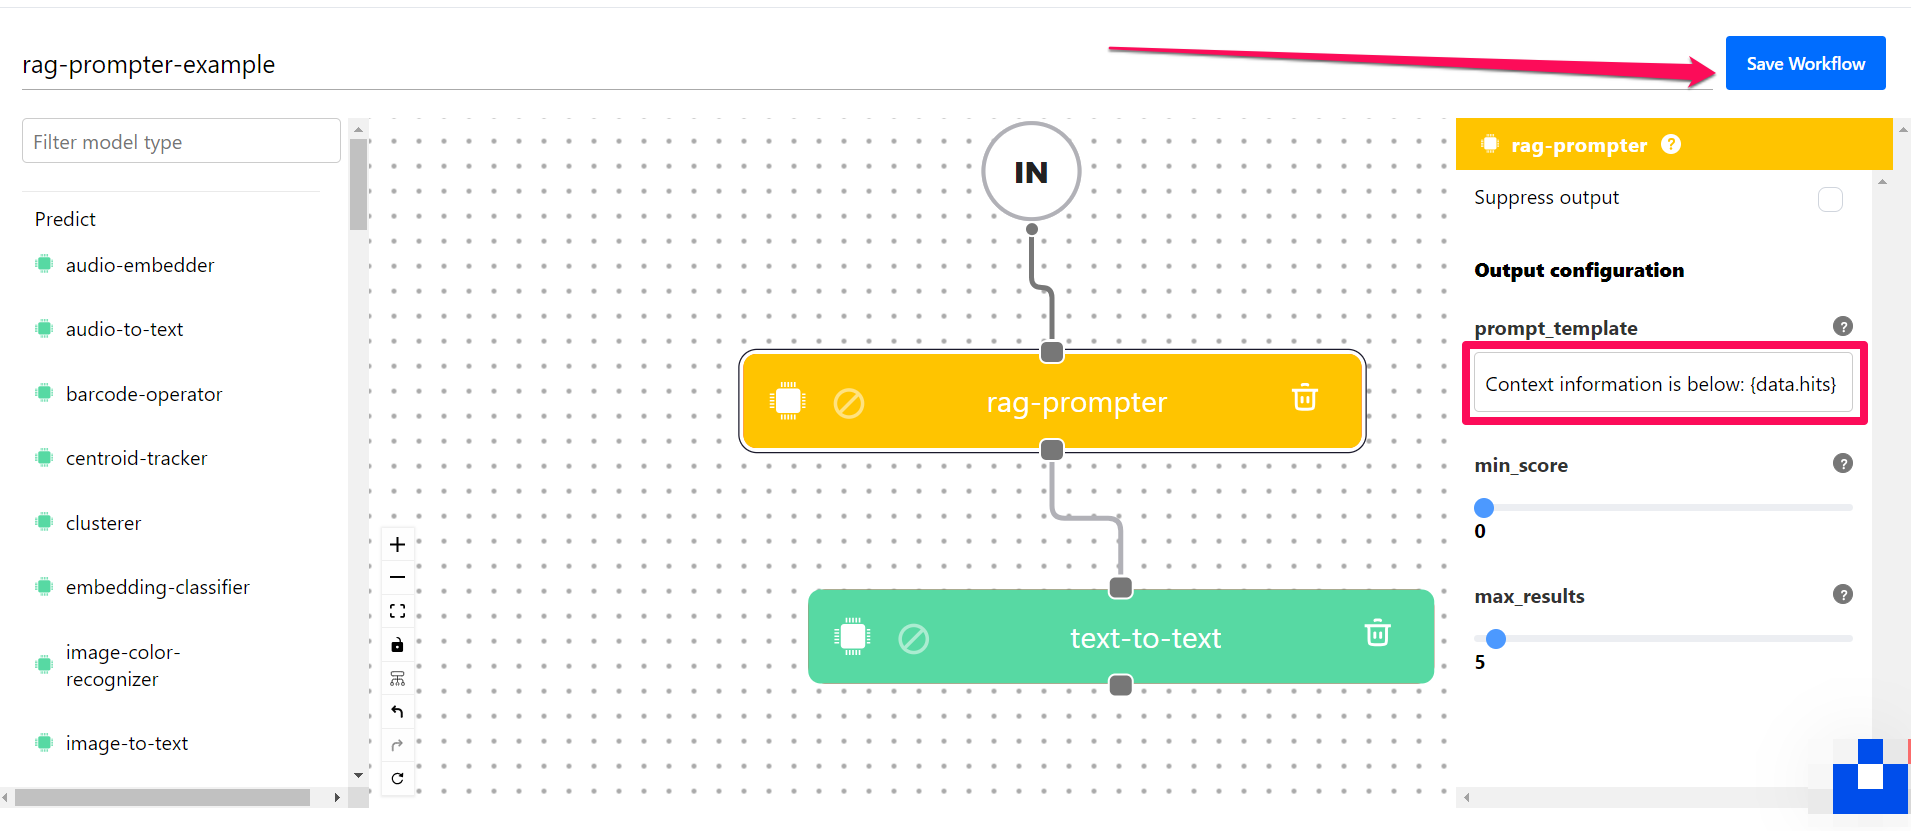
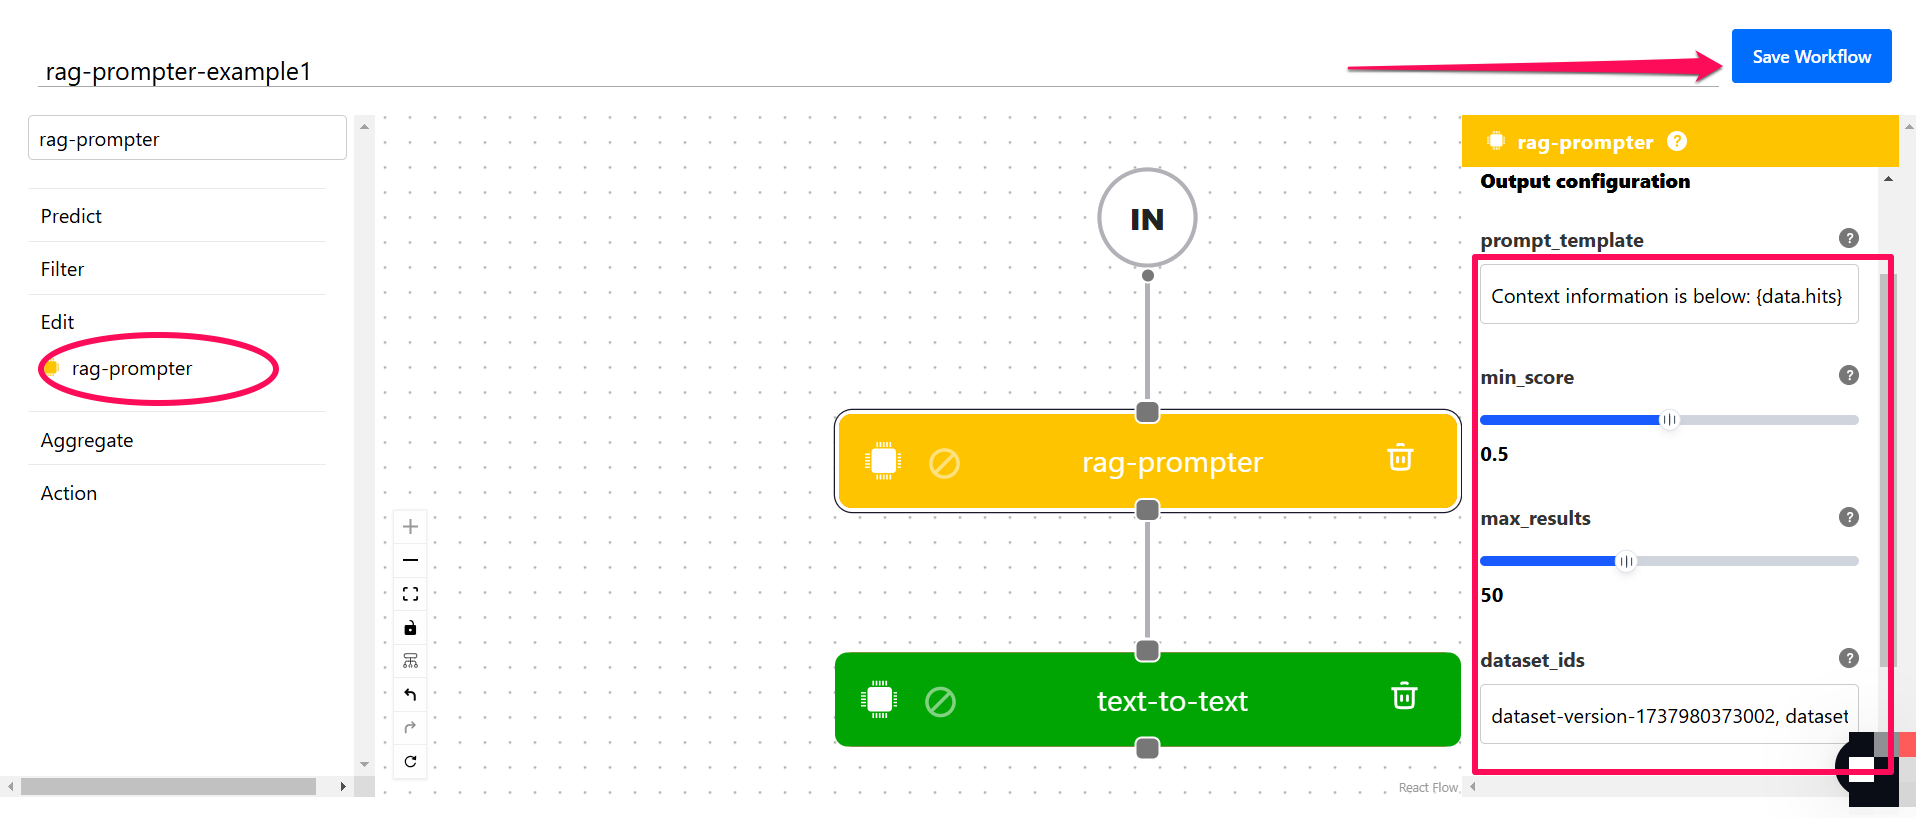
updated rag prompter

diff --git a/docs/portal-guide/agent-system-operators/rag-prompter.md b/docs/portal-guide/agent-system-operators/rag-prompter.md
@@ -14,7 +14,7 @@ LLMs have revolutionized natural language understanding across various applicati
 
 However, LLMs are often plagued by these two main limitations:
 
-- Most traditional LLMs have a static knowledge base that is limited to a specific period; for example, ChatGPT's knowledge cut-off is in January 2022. This makes them outdated and unable to respond accurately to recent events. 
+- Most traditional LLMs have a static knowledge base that is limited to a specific period; for example, as of this writing, ChatGPT's knowledge cut-off is in October 2023. This makes them outdated and unable to respond accurately to recent events. 
 
 - Most traditional LLMs are trained on an extensive, generalized collection of data, which may not be applicable to your specific use case. Whenever LLMs confront voids in their training data, they might generate seemingly plausible yet erroneous information, a phenomenon referred to as "hallucination."
 
@@ -56,7 +56,7 @@ Image source: [Clarifai portal](https://www.clarifai.com/hs-fs/hubfs/rag-query-d
 
 Let’s demonstrate how you can create a RAG Prompter model on the Clarifai platform. 
 
-:::note
+:::note objective
 
 Our intention is to search an app containing textual data for relevant information related to a provided text query. We extract the top k most relevant results from the app, and augment these results into the prompt we provide to the model. By leveraging the additional context, the model should be able to generate a more informative response to the question. 
 
@@ -74,7 +74,13 @@ When creating the application, select the **Text/Document** option as the primar
 
 ###  Step 2: Upload Data
 
-Next, upload the external data you want to use to optimize the output of a large language model. [Click here](https://docs.clarifai.com/portal-guide/data/#upload-inputs) to learn how you can upload data to your application. 
+Next, upload the external data you want to use to optimize the output of a large language model. [Click here](https://docs.clarifai.com/portal-guide/inputs-manager/upload-inputs) to learn how you can upload data to your application. 
+
+You can also [create a dataset](https://docs.clarifai.com/portal-guide/datasets/create-get-update-delete/#create-datasets) and add your inputs to it, then specify the dataset ID when configuring the RAG Prompter. This ensures the RAG Prompter performs context-based searches within the specified dataset, which leads to more accurate and relevant outputs.  
+
+If a dataset ID is not specified, the RAG Prompter will search across all inputs in your app, spanning all datasets. This can result in mixed context searches and less precise outputs due to jumbled context hits from unrelated datasets.
+
+Similarly, you can attach JSON metadata to your inputs when uploading them to the Clarifai platform. Metadata serve as additional information associated with your inputs and, like dataset IDs, can be used to narrow down search results. By specifying metadata, you can filter search results to match specific conditions, which further improves the relevance and accuracy of the context provided by the RAG Prompter.
 
 :::warning RAG in four lines of code
 
@@ -82,7 +88,7 @@ Next, upload the external data you want to use to optimize the output of a large
 
 :::
 
-For this example, let's add the following five inputs to our app:
+For this example, let's add the following inputs to a dataset in our app:
 
 ```
 The audit findings indicate that $460,000 was expended on machinery repairs during the previous twelve months. 
@@ -104,13 +110,15 @@ The financial records indicate that $480,000 was disbursed for machinery repairs
 During the 2019 fiscal year, the organization disbursed $475,000 on machinery repairs to ensure operational efficiency. 
 ``` 
 
-###  Step 3: Create a workflow
+###  Step 3: Create a Workflow
 
 Go to the [workflow builder](https://docs.clarifai.com/portal-guide/workflows/workflow-builder/). 
 
-Then, search for **rag-prompter** in the left-hand sidebar and drag it onto the empty workspace. Use the pop-up that appears on the right-hand sidebar to set up the template text as a single-line statement.
+Then, search for the **rag-prompter** node in the left-hand sidebar and drag it onto the empty workspace. 
 
-For this example, let's use this prompt template text:
+![](/img/others/rag-prompter-1.png)
+
+Use the pop-up that appears on the right-hand sidebar to set up the template text as a single-line statement. For this example, let's use this prompt template text:
 
 ```
 Context information is below: {data.hits} Given the context information and not prior knowledge, answer the query.Query: {data.text.raw} Answer: 
@@ -128,15 +136,15 @@ To customize your search experience, you can:
 
 - Modify `max_results` to specify the maximum number of relevant search results included in the prompt.
 
+- Provide a comma-separated list of `dataset_ids` or a single dataset ID for the RAG Prompter to search within. This ensures the search results are confined to specific datasets, which improves relevance and precision, as earlier explained.  
+
+- Define the `metadata` in JSON format to filter the search results further. Just like specifying a dataset ID, using [metadata](https://docs.clarifai.com/portal-guide/psearch/pfilter/#filter-by-metadata) enhances context generation and boosts the accuracy of the results. 
+
 To finalize creating your workflow, connect the **rag-prompter** to a text-to-text node, and choose a text-to-text LLM from the Clarifai Community, such as [GPT-4 Turbo](https://clarifai.com/openai/chat-completion/models/gpt-4-turbo).
 
-Then, save your workflow.
+Then, click the **Save Workflow** button to save your workflow.
 
-Here is an example:
- 
-![](/img/others/rag-prompter-1.png)
-
-### Step 4: Use the workflow
+### Step 4: Use the Workflow
 
 After saving the workflow, you’ll be directed to its individual page, where you can start using it. 
 
@@ -162,7 +170,7 @@ After creating your RAG Prompter, you can edit it by navigating to its individua
 
 ![](/img/others/rag-prompter-3.png)
 
-You'll be redirected to the workflow editor page, where you can make any changes needed, such as updating the prompt template text or the `min_score` and `max_results` parameters. 
+You'll be redirected to the workflow editor page, where you can make any changes needed, such as updating the prompt template text or other parameters. 
 
 ![](/img/others/rag-prompter-4.png)
 
@@ -180,7 +188,10 @@ You can then select the version to use for inferencing.
 
 ![](/img/others/rag-prompter-5.png)
 
-You can try this workflow [here](https://clarifai.com/clarifai/Sample-Workflows-for-Docs/workflows/RAG-Prompter?version=0d6fdf0f67df4dbfa386ff8c76a3cb77). 
+<!--
 :::note
-Before trying to access the workflow, please make sure that you have a Clarifai account and are logged in to the Clarifai platform to access the example workflow. If you do not have clarifai account you can signup [here](https://clarifai.com/explore).
+
+You can try this workflow [here](https://clarifai.com/clarifai/Sample-Workflows-for-Docs/workflows/RAG-Prompter?version=0d6fdf0f67df4dbfa386ff8c76a3cb77). 
+
 :::
+-->

diff --git a/docs/portal-guide/control-center/teams-logs.md b/docs/portal-guide/control-center/teams-logs.md
@@ -14,9 +14,18 @@ The Teams & Logs tab allows you to monitor platform operations by capturing deta
 
 It provides the ability to assess user actions and resource changes, identify potential security issues, maintain comprehensive logs to meet regulatory requirements, and monitor request origins to troubleshoot failed operations effectively.  
 
+You can use the tab to track the following critical resource operations (_we're planning to support more resources in the future_):
+
+- **Organization and team membership activities** — Includes creating, updating, or deleting organizations and teams, sending invitations, and managing team users and applications.  
+- **Module activities** — Tracks the creation, updating, and deletion of modules. 
+- **Model activities** — Tracks actions such as creating, training, publishing, and deleting models.  
+- **Workflow activities** — Covers the creation, publishing, updating, and deletion of workflows.  
+- **Application activities** — Includes creating, updating, duplicating, and deleting applications.  
+- **Collaborator activities** — Includes adding collaborators, editing their scopes, and removing them. 
+
 :::note
 
-[Click here](https://docs.clarifai.com/api-guide/audit-log/) to learn how to perform audit tracking via the API. Also, learn about the types of operations this feature supports [here](https://docs.clarifai.com/api-guide/audit-log/#operation-based-filtering). 
+[Click here](https://docs.clarifai.com/api-guide/audit-log/) to learn how to perform audit tracking via the API. 
 
 :::
 
@@ -28,7 +37,7 @@ This feature is currently only available to users on our **Professional** and **
 
 <br/>
 
-To access it, go to the Control Center and select the Teams & Logs tab in the collapsible left sidebar.
+To access the tab, go to the Control Center and select the Teams & Logs option in the collapsible left sidebar.
 
 ![](/img/community/control-center/teams_logs_1.png)
 
@@ -44,7 +53,9 @@ By default, the page displays activities across all your apps. You can customize
 
 ![](/img/community/control-center/teams_logs_2.png)
 
-Additionally, you can filter and view data for specific time periods using the date range selector in the upper-right corner. If you click the tool, a calendar will drop down, which allows you to specify a date range to narrow down the activity logs. You can learn more about the tool [here](https://docs.clarifai.com/portal-guide/control-center/#date-ranges). 
+Additionally, you can filter and view data for specific time periods using the date range selector in the upper-right corner. If you click the tool, a calendar will drop down, which allows you to specify a date range to narrow down the activity logs. 
+
+You can learn more about the date range tool [here](https://docs.clarifai.com/portal-guide/control-center/#date-ranges). 
 
 ![](/img/community/control-center/teams_logs_3.png)
 

diff --git a/docs/portal-guide/inputs-manager/upload-inputs.md b/docs/portal-guide/inputs-manager/upload-inputs.md
@@ -38,11 +38,15 @@ To upload inputs, navigate to your individual app's page and select the **Inputs
 
 The inputs uploader window that pops up allows you to upload any type of input data — files from your local directory, texts, or publicly accessible URLs. 
 
-:::note
+Note that you can also use the inputs uploader modal to:
 
-You can also use the inputs uploader modal to organize your inputs into datasets, [add concepts to inputs](https://docs.clarifai.com/portal-guide/inputs-manager/concepts#via-the-inputs-uploader), or attach JSON metadata for additional context. This modal simplifies the process of managing and enriching your inputs on the platform.
+- Organize your inputs into datasets.
 
-:::
+- [Add concepts to inputs](https://docs.clarifai.com/portal-guide/inputs-manager/concepts#via-the-inputs-uploader).
+
+- Attach JSON metadata for additional context. Metadata are additional pieces of information you attach to your inputs when uploading them to the Clarifai platform. This can include product IDs, user IDs, or any other relevant details necessary for achieving specific outcomes
+
+This modal simplifies the process of managing and enriching your inputs on the platform.
 
 ### Upload Files
 

diff --git a/docs/portal-guide/advanced-topics/test.md b/docs/portal-guide/advanced-topics/test.md
@@ -2,7 +2,7 @@
 description: Capture information from an organization's form that are stored as PDF documents
 pagination_next: null
 sidebar_position: 7
-drafr: true
+draft: true
 ---
 # Test
 
